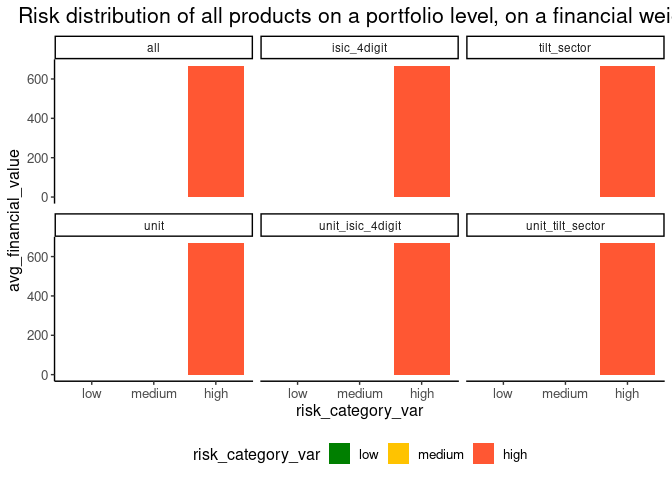
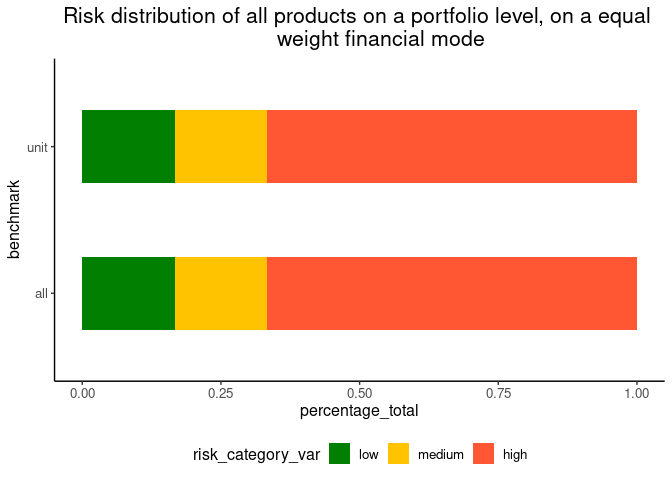
deleted old function and build README

diff --git a/README.md b/README.md
@@ -82,7 +82,7 @@ plot_sankey(fin, with_company = FALSE, mode = "best_case")
 
 <img src="man/figures/README-unnamed-chunk-6-1.png" width="100%" />
 
-### 2. XCTR plots with financial data
+### 2. Emission risk plots with financial data
 
 ``` r
 financial
@@ -111,8 +111,13 @@ On a company level:
 ``` r
 fin <- financial
 
-plot_xctr_financial(fin, "peter", mode = "worst_case") +
-  labs(title = "Risk distribution of all products on a company level, on a financial weight")
+benchmarks <- c("all", "unit")
+
+fin |> 
+  filter(company_name == "tilman") |> 
+  bar_plot_emission_profile_financial(benchmarks, mode = "equal_weight") +
+  labs(title = "Risk distribution of all products on a company level, on a equal 
+       weight financial mode")
 ```
 
 <img src="man/figures/README-unnamed-chunk-8-1.png" width="100%" />
@@ -120,8 +125,9 @@ plot_xctr_financial(fin, "peter", mode = "worst_case") +
 On a portfolio level:
 
 ``` r
-plot_xctr_financial(fin, mode = "worst_case") +
-  labs(title = "Risk distribution of all products on a portfolio level, on a financial weight")
+bar_plot_emission_profile_financial(fin, benchmarks, mode = "equal_weight") +
+  labs(title = "Risk distribution of all products on a portfolio level, on a equal 
+       weight financial mode")
 ```
 
 <img src="man/figures/README-unnamed-chunk-9-1.png" width="100%" />
@@ -188,7 +194,6 @@ map_region_risk(no_fin, "DE", benchmark = "tilt_sector", mode = "worst_case") +
   that are found in one region.
   © EuroGeographics for the administrative boundaries ")
 #> Extracting data using giscoR package, please report issues on https://github.com/rOpenGov/giscoR/issues
-#> Cache management as per giscoR. see 'giscoR::gisco_get_nuts()'
 ```
 
 <img src="man/figures/README-unnamed-chunk-13-1.png" width="100%" />
